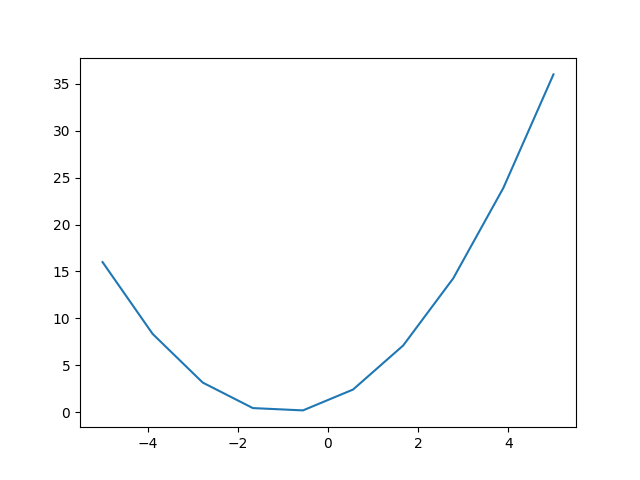
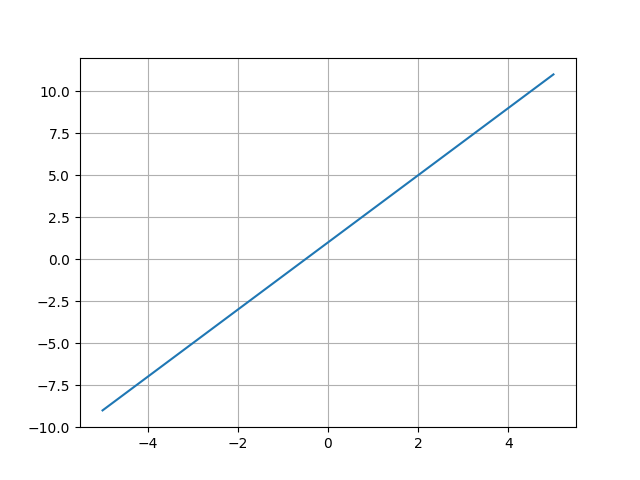
Update plot

diff --git a/eksempel.py b/eksempel.py
@@ -116,9 +116,11 @@ funksjon(3) #kaller på funksjonen
 print("-" * 20)
 
 '''11. Grafer'''
-x = linspace(-5, 5, 10)
-y = x**2 + 2*x + 1
+x = linspace(-5, 5, 3)
+y = 2*x + 1
 plot(x, y)
+grid()
+show()  #virker ikke i repl.it
 savefig('plot.png')
 
 
